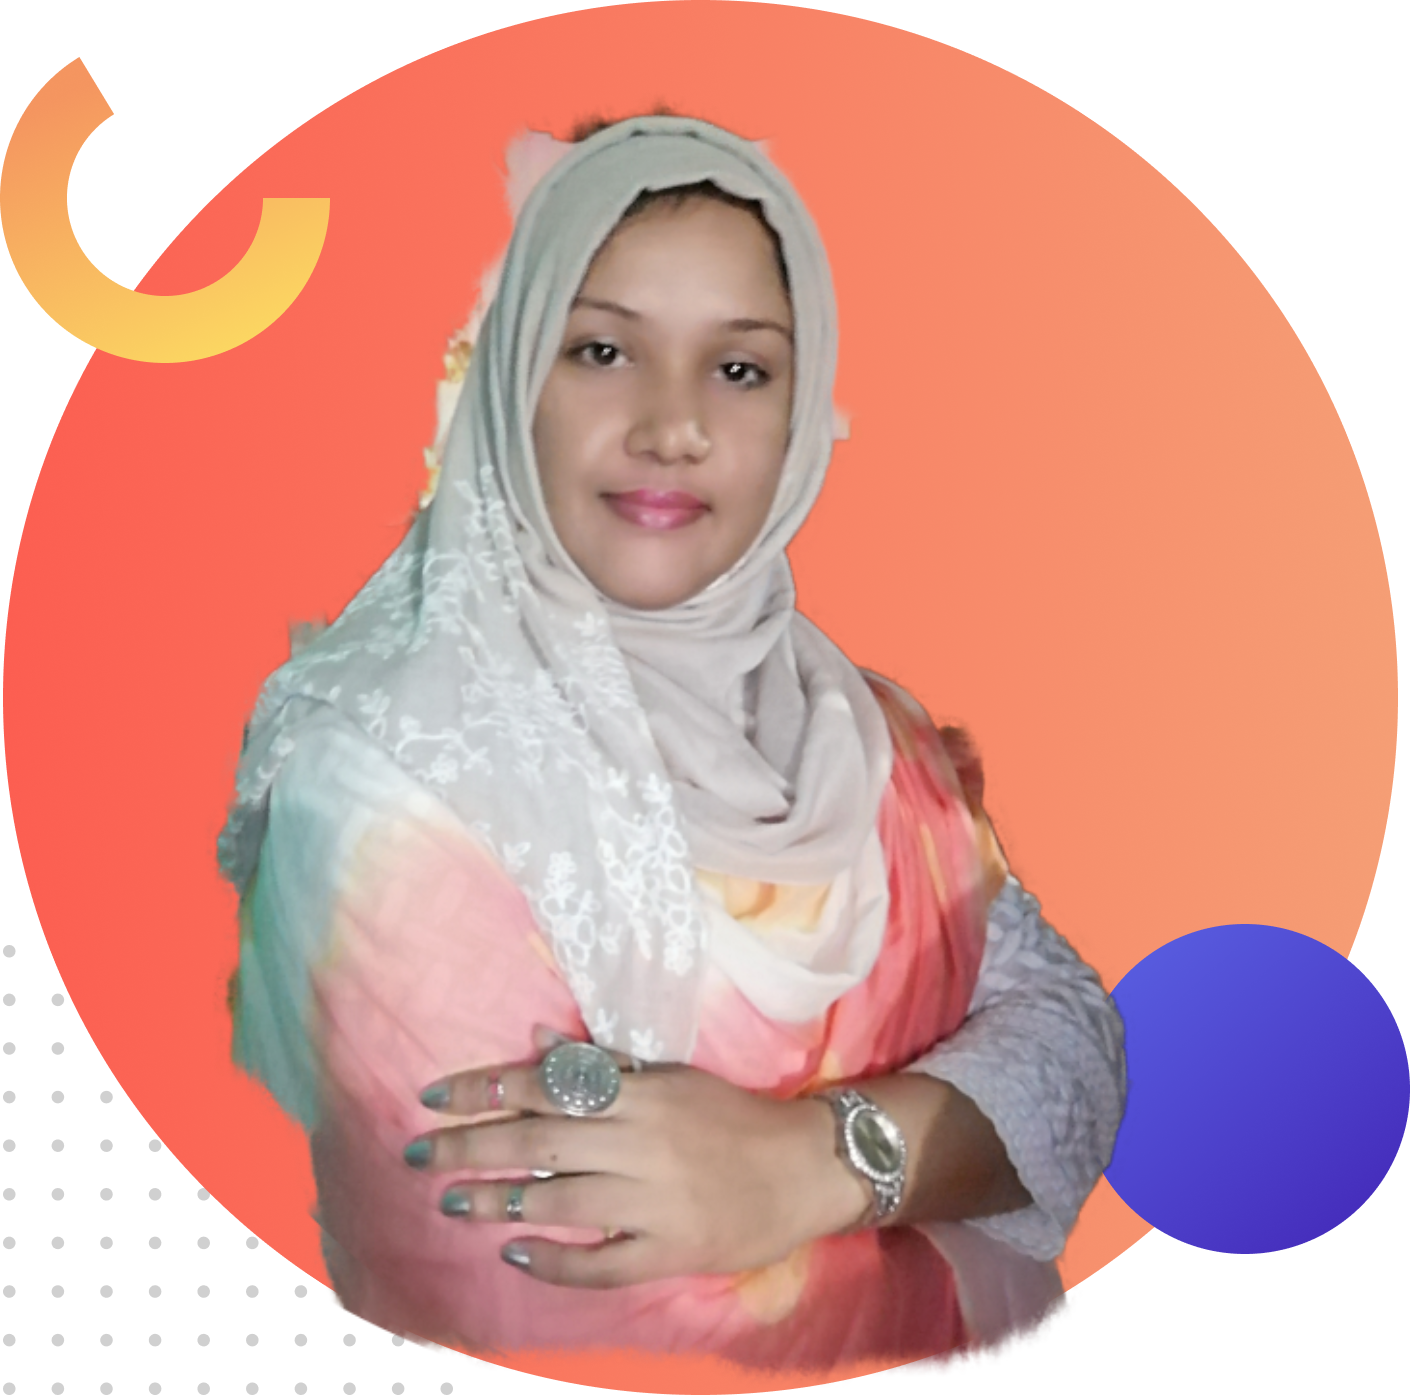
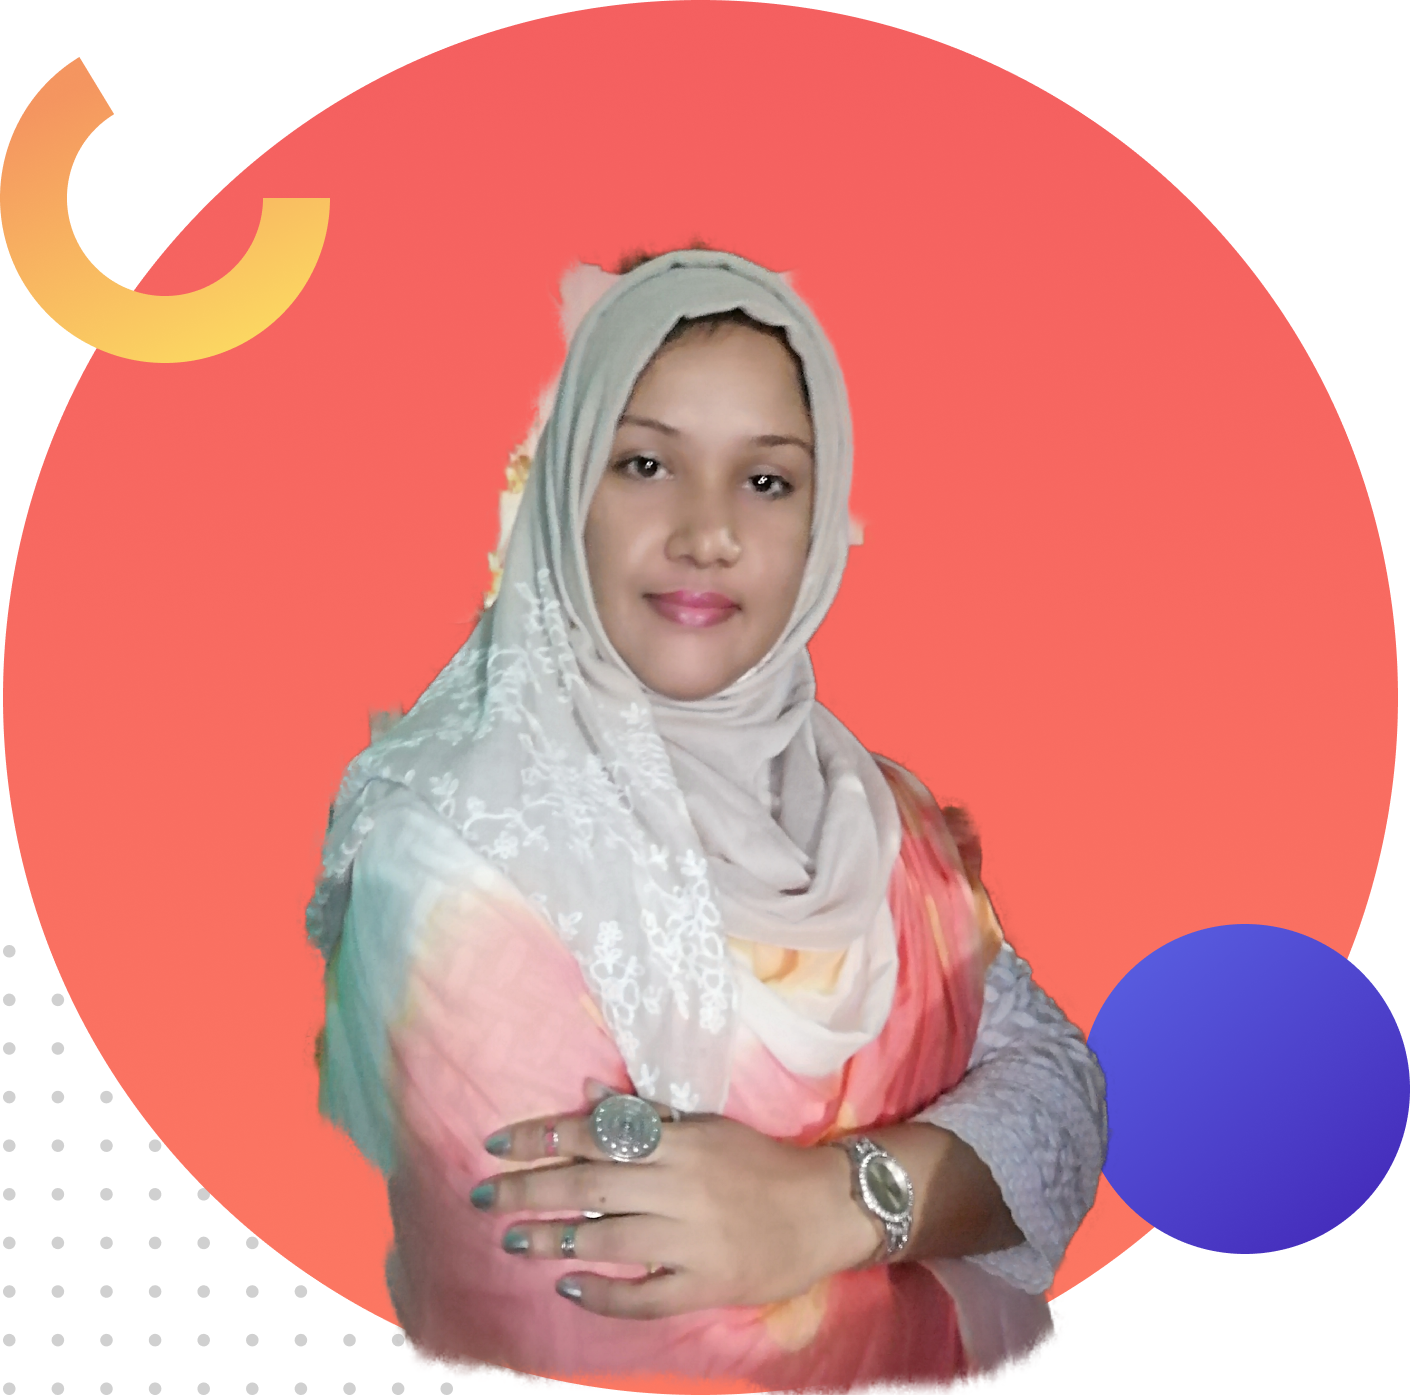
save changes

diff --git a/index.html b/index.html
@@ -9,55 +9,65 @@
     <link rel="stylesheet" href="style.css">
 </head>
 <body>
-    <section class="background-color1 text-color">
+    <section>
         <div class="half-width">
             <h1>HELLO, I'M</h1>
             <h1><span class="highligter">MAHBUBA SULTANA</span></h1>
             <p> Want to be a web developer.Learning web development nowadays.</p>
             <a class="link-button" target="_blank" href="https://en.wikipedia.org/wiki/Main_Page">Hire Me</a>
         </div>
-        <div class="half-width">
+        <div class="half-width img">
             <img src="images/profile.png" alt="">
         </div>
     </section>
     <section>
-        <div class="half-width">
-            <img src="images/profile2.png" alt="">
+        <div class="half-width img">
+            <img src="images/profile2" alt="">
         </div>
         <div class="half-width">
-            <h3 class="alignment">ABOUT</h3>
+            <h2 class="alignment">ABOUT</h2>
             <p>Myself Mahbuba Sultana.One day I want to be a excellent Web Developer.For that I have joined the Complete Web Development Course by Jhankar Mahbub.</p>
             <a class="link-button" target="_blank" href="https://en.wikipedia.org/wiki/Main_Page">Download CV</a>
         </div>
     </section>
     <section>
-        <h3 class="alignment"><span class="highligter">LATEST</span> WORKING PROJECTS</h3>
-        <div class="one-third">
+        <h2 class="alignment"><span class="highligter">LATEST</span> WORKING PROJECTS</h2>
+        <div class="block">
             <img src="images/image 4.png" alt="">
-            <h5>Power-X-Gim (gim website)</h5>
+            <h4>Power-X-Gim (gim website)</h4>
             <p>First time I have done a site like this.</p>
         </div>
-        <div class="one-third">
+        <div class="block">
             <img src="images/image 5.png" alt="">
-            <h5>Creative Agency</h5>
+            <h4>Creative Agency</h4>
             <p>Also I have done a creative agency's site also.</p>
         </div>
-        <div class="one-third">
+        <div class="block">
             <img src="images/image 8.png" alt="">
-            <h5>Hard Rock Music</h5>
+            <h4>Hard Rock Music</h4>
             <p>I have done a hard rock music site also.  </p>
         </div>
     </section>
-    <footer>
+    <section>
         <div>
+            <h1>WORK INQUIRY</h1>
+        </div>
+        <div>
+            <a class="link button" target="_blank" href="">Lets Chat</a>
+        </div>
+    </section>
+    <section>
+        <div class="footer">
+            <h3>Stay connected</h3>
+            <h2>hello@design.com</h2>
         <h5 class="alignment">Mahbuba Sultana, 06 January,2021.All rights reserved. </h5>
         </div>
-        <div>
-            <h5 class="alignment">Contact Me</h5>
+        <div class="footer">
+            <h4 class="alignment">Contact Me</h4>
 
-            <h5 class="alignment">Dhaka, Bangladesh.</h5>
-            <h5 class="alignment">Phone-099990</h5>
+            <h4 class="alignment">Dhaka, Bangladesh.</h4>
+            <h4 class="alignment">Phone-099990</h4>
         </div>
-    </footer>
+    </section>
 </body>
 </html>

diff --git a/style.css b/style.css
@@ -1,16 +1,12 @@
 body{
-    margin: 0;
+    margin: 0%;
     font-family:'Poppins', sans-serif;
     ;
 }
 h1{
     font-size: 50px;
 }
-.background-color1{
-    color:black;
- .text-color{
-    color:darkslategrey;
-}
+
 .highligter{
     color:lightsalmon;
 }
@@ -21,21 +17,62 @@ h1{
     padding-left: 2%;
 }
 .half-widh img{
-    max-width 100% ;
-    height: auto;
+    max-width:80% ;
+    display: inline-block;
+
 }
 section{
-    height: 500px;
-    padding-bottom: 150px;
+    height: 700px;
+    padding-bottom: 80px 20px 5px 20px;
+    margin-bottom: 0;
 }
 .link-button{
     text-decoration: none;
-    background-color: linear-gradient(45deg,lightsalmon, tomato);
+    background-color: tomato;
+    margin-top: 50%;
     padding: 10px 20px;
+    border: 2px solid tomato;
     border-radius: 5px;
-    color: white;
+    color:black;
     font-weight: 700;
 }
 .alignment{
     text-align: center;
+}
+.block{
+    width: 30%;
+    border-radius: 20px;
+    justify-self: center;
+    margin: 1%;
+    padding-left: 1%;
+    display: inline-block;
+    justify-self: center;
+}
+.block img{
+    width: 100%;
+}
+p{
+    text-align: justify;
+    margin-bottom: 10%;
+}
+.top-banner{
+    background-image: url("images/top-banner.png");
+    background-repeat: no-repeat;
+}
+.box{
+    border: 40px;
+    width: 500px;
+    height: 150;
+    margin: 40px;
+    padding: 30px;
+}
+.footer{
+    background-color: tomato;
+    text-align: center;
+    width: 40%;
+    height: 50px;
+    margin-left: 5%;
+    padding-left: 2%;  
+    display: inline-block;
+    margin-bottom: 0%;
 }
